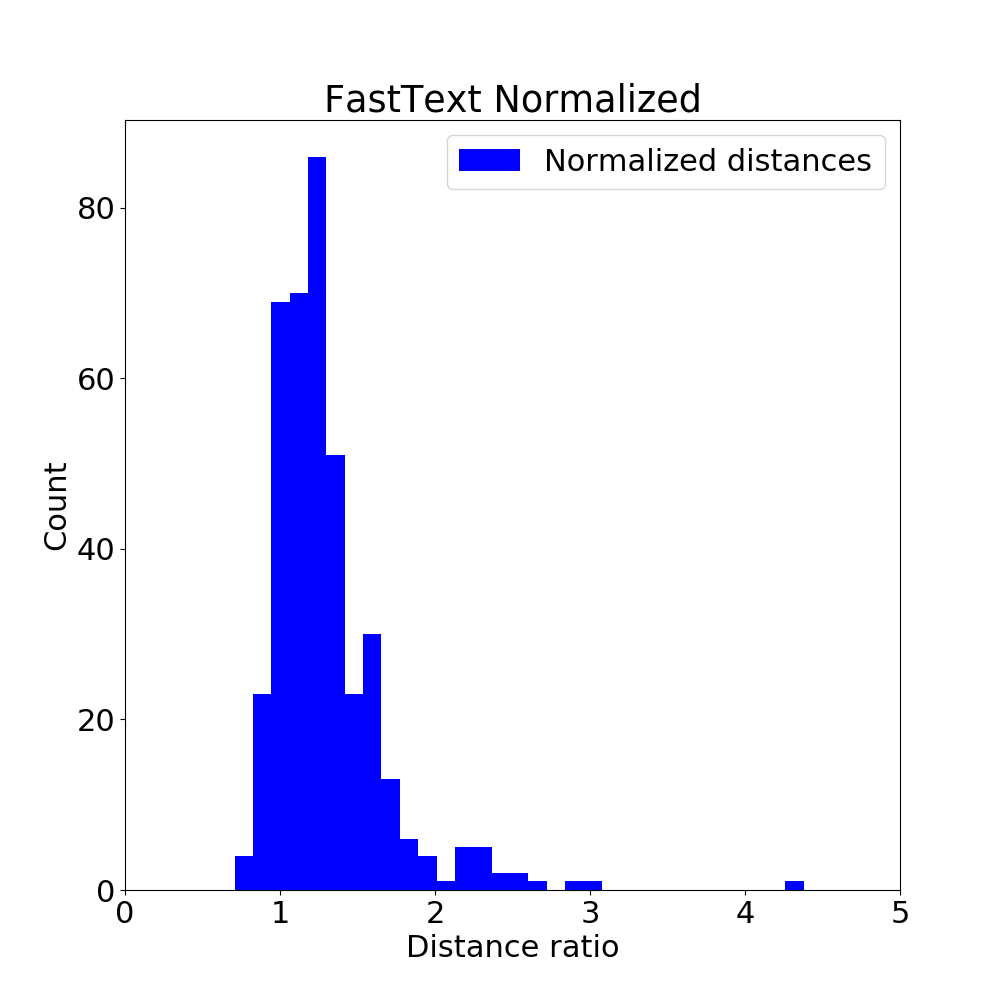
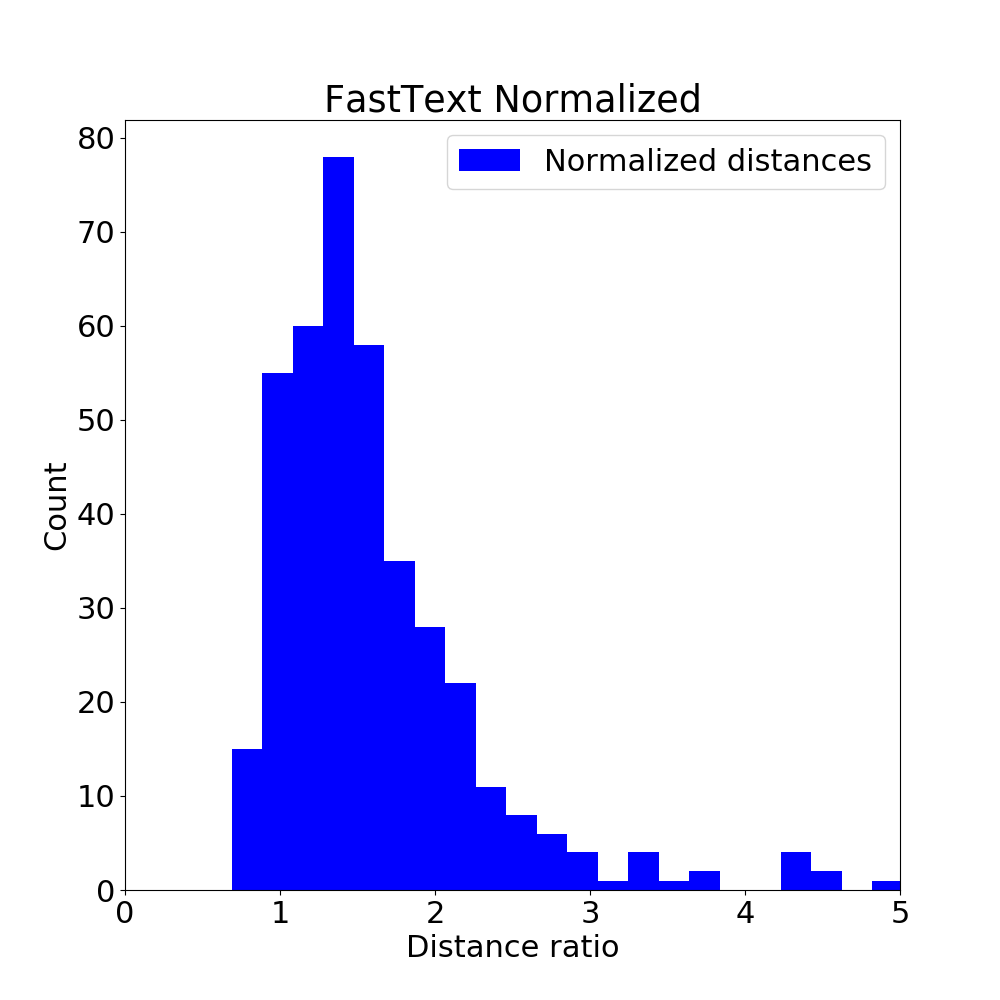
fasttext trained on cleaned wiki

diff --git a/models/FastText.py b/models/FastText.py
@@ -4,14 +4,21 @@ import numpy as np
 from scipy import spatial
 import nltk.tokenize
 import re
-import fasttext
+import fastText
+
 class FastText:
     def __init__(self,
                  wiki_file_path = os.path.join("data","wiki_dk_clean_w2v.txt"),
-                 ft_binaries_path= os.path.join("embeddings","wiki_w2v.bin")):
+                 ft_binaries_path= os.path.join("embeddings","wiki_w2v.bin"),train=False):
 
         self.name = "FastText"
-        self.ft = fasttext.load_model(ft_binaries_path)
+
+        if train:
+            self.ft = fastText.FastText.train_unsupervised("data/wiki_dk_clean_w2v.txt", dim=100)
+            self.ft.save_model("embeddings/ft.bin")
+        else:
+            self.ft = fastText.load_model(ft_binaries_path)
+
 
     def __call__(self, word):
         return self.ft[word]
@@ -23,7 +30,7 @@ class FastText:
 
         for word in words:
             try:
-                vec = self.ft[word]
+                vec = self.ft.get_word_vector(word)
             except:
                 raise Exception("I dont know", word)
 
@@ -33,10 +40,13 @@ class FastText:
 
     def know(self,query):
         words = self.__split(query)
-
         for word in words:
             try:
-                self.ft[word]
+
+                if self.ft.get_word_id(word) == -1:
+                    print("dont know",word," ",self.ft.get_subwords(word))
+
+                self.ft.get_word_vector(word)
             except:
                 return False
         return True

diff --git a/analysis/analyse_fasttext_small.py b/analysis/analyse_fasttext_small.py
@@ -5,8 +5,8 @@ import numpy as np
 data = []
 total = 0
 
-file_name = "results/FastText.csv"
-file_unknown = "results/FastText_unknown.csv"
+file_name = "results/FastText_ours.csv"
+file_unknown = "results/FastText_ours_unknown.csv"
 
 ana = Analyzer(file_name,file_unknown,small=True)
 

diff --git a/analysis/analyse_fasttext.py b/analysis/analyse_fasttext.py
@@ -5,8 +5,8 @@ import numpy as np
 data = []
 total = 0
 
-file_name = "results/FastText.csv"
-file_unknown = "results/FastText_unknown.csv"
+file_name = "results/FastText_ours.csv"
+file_unknown = "results/FastText_ours_unknown.csv"
 
 ana = Analyzer(file_name,file_unknown)
 

diff --git a/run_fasttext.py b/run_fasttext.py
@@ -4,6 +4,6 @@ from utils.evaluator import Evaluator
 
 parse_wiki_w2v(max_articles=None,overwrite=False)
 
-ft = FastText(ft_binaries_path="embeddings/daft.bin")
+ft = FastText(ft_binaries_path="embeddings/ft.bin")
 
 Evaluator(ft)

diff --git a/analysis/Analyzer.py b/analysis/Analyzer.py
@@ -60,6 +60,7 @@ class Analyzer(object):
 
 
     def get_acc(self):
+        print(self.total)
         return self.predictions.count(3)/self.total
 
     def get_norm_dist(self):

diff --git a/run_lsa.py b/run_lsa.py
@@ -11,6 +11,8 @@ bow = BowSparse(overwrite=True,wiki_data_path="data/wiki_dk_clean.csv",
 
 lsa = LSA(bow,number_of_pc=100)
 
+
+
 Evaluator(lsa)
 
 
